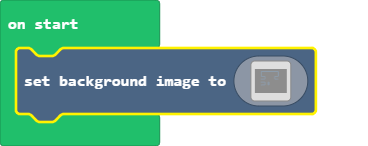
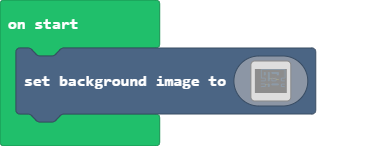
More Background

Changed region(s): [[0.0299, 0.3014, 0.8668, 0.8493], [0.6875, 0.4658, 0.7772, 0.5479], [0.7174, 0.5753, 0.7772, 0.6027]]

diff --git a/main.ts b/main.ts
@@ -1,4 +1,65 @@
 scene.setBackgroundImage(img`
[61 lines of base64/hex data omitted]
     ffffffffffffffffffffffffffffffffffffffffffffffffffffffffffffffffffffffffffffffffffffffffffffffffffffffffffffffffffffffffffffffffffffffffffffffffffffffffffffffff
     ffffffffffffffffffffffffffffffffffffffffffffffffffffffffffffffffffffffffffffffffffffffffffffffffffffffffffffffffffffffffffffffffffffffffffffffffffffffffffffffff
     ffffffffffffffffffffffffffffffffffffffffffffffffffffffffffffffffffffffffffffffffffffffffffffffffffffffffffffffffffffffffffffffffffffffffffffffffffffffffffffffff
@@ -10,86 +71,25 @@ scene.setBackgroundImage(img`
     ffffffffffffffffffffffffffffffffffffffffffffffffffffffffffffffffffffffffffffffffffffffffffffffffffffffffffffffffffffffffffffffffffffffffffffffffffffffffffffffff
     ffffffffffffffffffffffffffffffffffffffffffffffffffffffffffffffffffffffffffffffffffffffffffffffffffffffffffffffffffffffffffffffffffffffffffffffffffffffffffffffff
     ffffffffffffffffffffffffffffffffffffffffffffffffffffffffffffffffffffffffffffffffffffffffffffffffffffffffffffffffffffffffffffffffffffffffffffffffffffffffffffffff
[41 lines of base64/hex data omitted]
     ffffffffffffffffffffffffffffffffffffffffffffffffffffffffffffffffffffffffffffffffffffffffffffffffffffffffffffffffffffffffffffffffffffffffffffffffffffffffffffffff
-    ffffffffffffffffffffffffffffffffffffffffffffffffffffffffffffffffffffffffffffffffffffffffffffffffffffffffffffffffffffffffffffffffffffffffffffffffffffffffffffffff
-    ffffffffffffffffffffffffffffffffffffffffffffffffffffffffffffffffffffffffffffffffffffffffffffffffffffffffffffffffffffffffffffffffffffffffffffffffffffffffffffffff
-    ffffffffffffffffffffffffffffffffffffffffffffffffffffffffffffffffffffffffffffffffffffffffffffffffffffffffffffffffffffffffffffffffffffffffffffffffffffffffffffffff
-    ffffffffffffffffffffffffffffffffffffffffffffffffffffffffffffffffffffffffffffffffffffffffffffffffffffffffffffffffffffffffffffffffffffffffffffffffffffffffffffffff
-    ffffffffffffffffffffffffffffffffffffffffffffffffffffffffffffffffffffffffffffffffffffffffffffffffffffffffffffffffffffffffffffffffffffffffffffffffffffffffffffffff
-    ffffffffffffffffffffffffffffffffffffffffffffffffffffffffffffffffffffffffffffffffffffffffffffffffffffffffffffffffffffffffffffffffffffffffffffffffffffffffffffffff
-    ffffffffffffffffffffffffffffffffffffffffffffffffffffffffffffffffffffffffffffffffffffffffffffffffffffffffffffffffffffffffffffffffffffffffffffffffffffffffffffffff
-    ffffffffffffffffffffffffffffffffffffffffffffffffffffffffffffffffffffffffffffffffffffffffffffffffffffffffffffffffffffffffffffffffffffffffffffffffffffffffffffffff
-    ffffffffffffffffffffffffffffffffffffffffffffffffffffffffffffffffffffffffffffffffffffffffffffffffffffffffffffffffffffffffffffffffffffffffffffffffffffffffffffffff
-    ffffffffffffffffffffffffffffffffffffffffffffffffffffffffffffffffffffffffffffffffffffffffffffffffffffffffffffffffffffffffffffffffffffffffffffffffffffffffffffffff
-    ffffffffffffffffffffffffffffffffffffffffffffffffffffffffffffffffffffffffffffffffffffffffffffffffffffffffffffffffffffffffffffffffffffffffffffffffffffffffffffffff
[18 lines of base64/hex data omitted]
-    ffffffffffffffffffffffffffffffffffffffffffffffffffffffffffffffffffffffffffffffffffffffffffffffffffffffffffffffffffffffffffffffffffffffffffffffffffffffffffffffff
-    ffffffffffffffffffffffffffffffffffffffffffffffffffffffffffffffffffffffffffffffffffffffffffffffffffffffffffffffffffffffffffffffffffffffffffffffffffffffffffffffff
-    ffffffffffffffffffffffffffffffffffffffffffffffffffffffffffffffffffffffffffffffffffffffffffffffffffffffffffffffffffffffffffffffffffffffffffffffffffffffffffffffff
-    ffffffffffffffffffffffffffffffffffffffffffffffffffffffffffffffffffffffffffffffffffffffffffffffffffffffffffffffffffffffffffffffffffffffffffffffffffffffffffffffff
-    ffffffffffffffffffffffffffffffffffffffffffffffffffffffffffffffffffffffffffffffffffffffffffffffffffffffffffffffffffffffffffffffffffffffffffffffffffffffffffffffff
-    ffffffffffffffffffffffffffffffffffffffffffffffffffffffffffffffffffffffffffffffffffffffffffffffffffffffffffffffffffffffffffffffffffffffffffffffffffffffffffffffff
-    ffffffffffffffffffffffffffffffffffffffffffffffffffffffffffffffffffffffffffffffffffffffffffffffffffffffffffffffffffffffffffffffffffffffffffffffffffffffffffffffff
-    ffffffffffffffffffffffffffffffffffffffffffffffffffffffffffffffffffffffffffffffffffffffffffffffffffffffffffffffffffffffffffffffffffffffffffffffffffffffffffffffff
-    ffffffffffffffffffffffffffffffffffffffffffffffffffffffffffffffffffffffffffffffffffffffffffffffffffffffffffffffffffffffffffffffffffffffffffffffffffffffffffffffff
[18 lines of base64/hex data omitted]
     ffffffffffffffffffffffffffffffffffffffffffffffffffffffffffffffffffffffffffffffffffffffffffffffffffffffffffffffffffffffffffffffffffffffffffffffffffffffffffffffff
     ffffffffffffffffffffffffffffffffffffffffffffffffffffffffffffffffffffffffffffffffffffffffffffffffffffffffffffffffffffffffffffffffffffffffffffffffffffffffffffffff
     ffffffffffffffffffffffffffffffffffffffffffffffffffffffffffffffffffffffffffffffffffffffffffffffffffffffffffffffffffffffffffffffffffffffffffffffffffffffffffffffff
